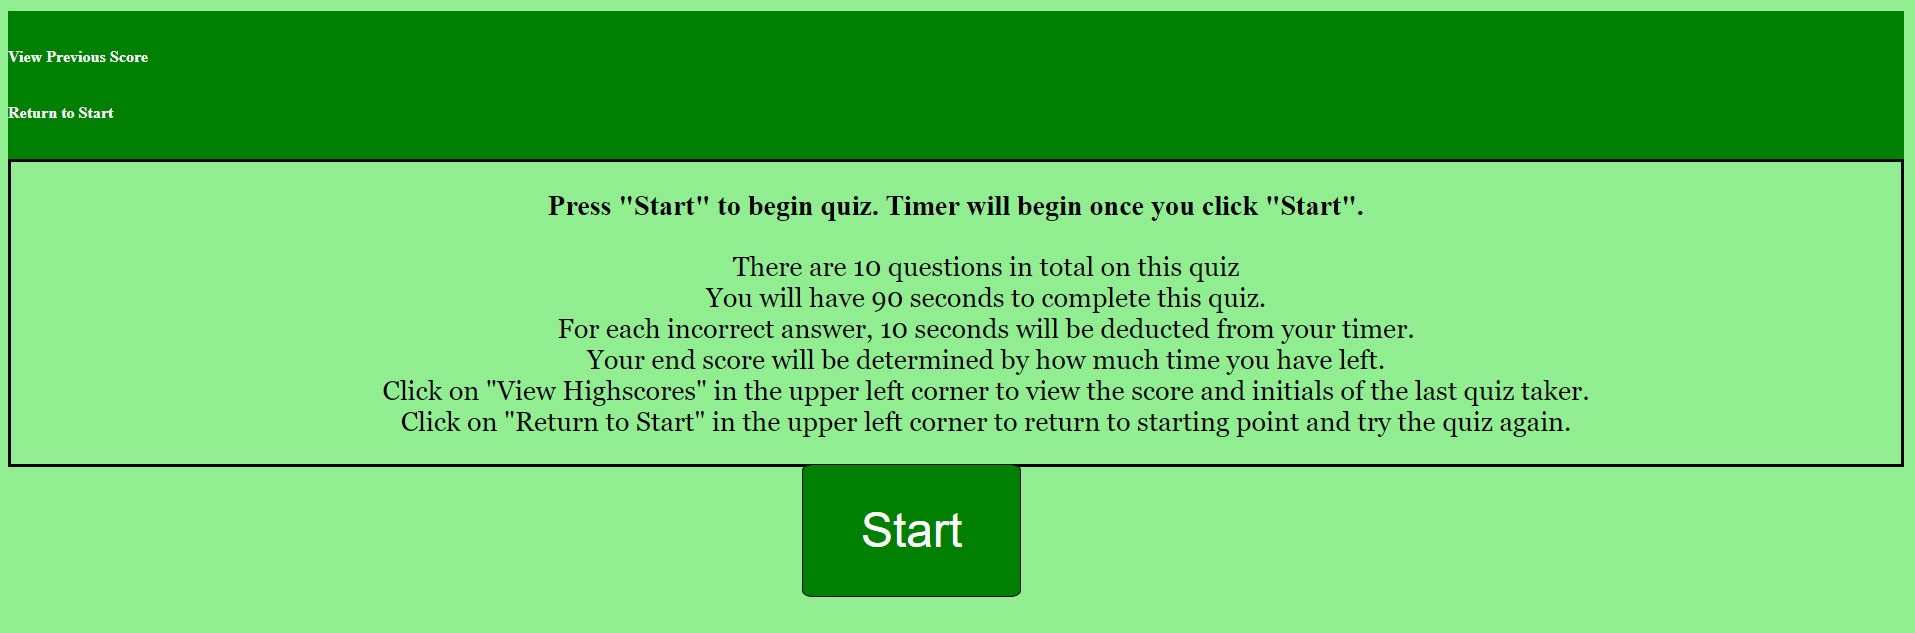
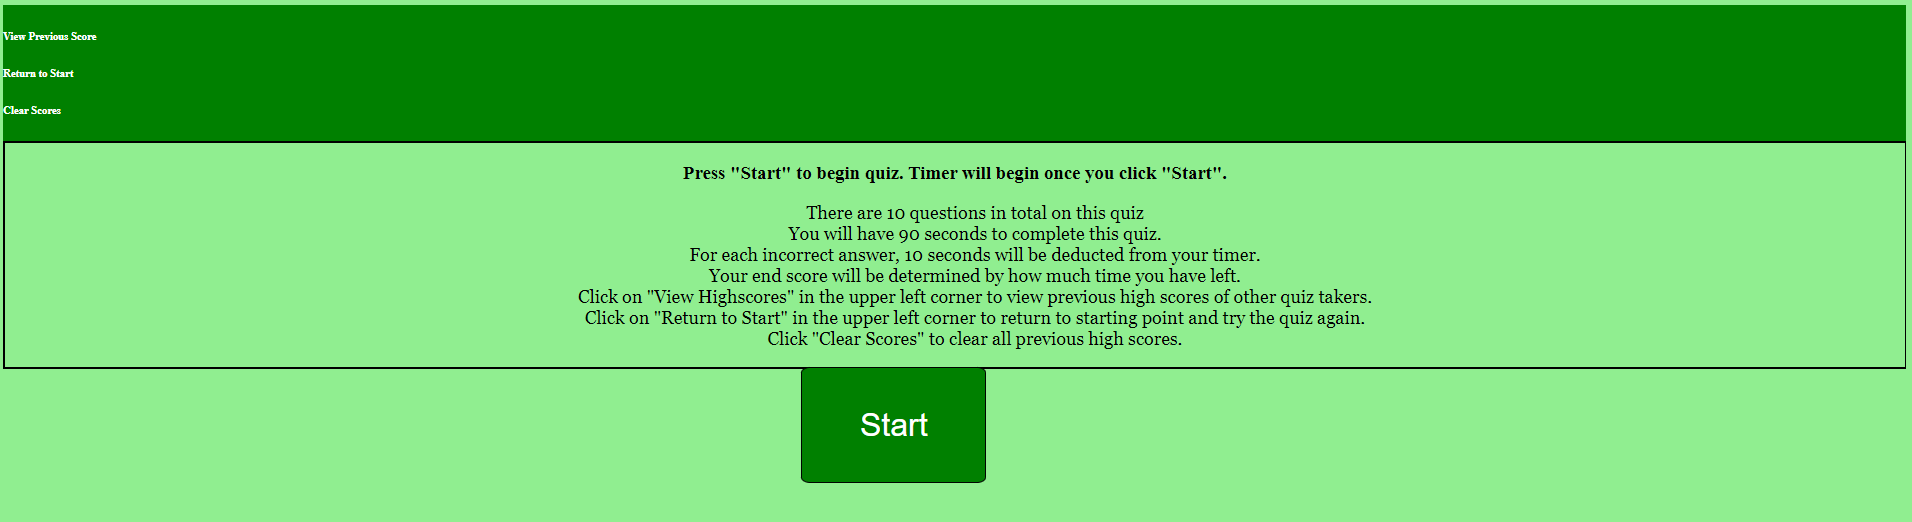
Put in modal to stop user from submitting empty initials in JavaScript and HTML

Changed region(s): [[0.0, 0.0, 1.0, 0.9502], [0.2777, 0.3065, 0.7097, 0.3678]]

diff --git a/assets/script.js b/assets/script.js
@@ -105,6 +105,13 @@ let paragraph = document.createElement("ol");
 let restart = document.getElementById("return");
 let scores = JSON.parse(localStorage.getItem("highScore")) || [];
 const placeholder = ""
+const clearBtn = document.getElementById("clearBtn")
+const modal = document.getElementById("myModal")
+let exit = document.getElementById("close")
+exit.addEventListener("click", function(){
+    modal.style.display = "none"
+})
+
 
 
 //Pull existing scores from local storage on page load and display them on the high scores board.
@@ -177,20 +184,35 @@ function endQuiz() {
     endScore.innerHTML = timeLeft
 }
 
+//Click submit button once initials are added and be taken to the final scores list
+submitbtn.addEventListener("click", initials)
+
 //Saves end user score to local storage
-function scoreList (event) {
+function initials (event) {
     event.preventDefault();
+    results.style.display = "block"
+    highSc.style.display = "none"
+    let userInput = document.getElementById("name")
+    if(userInput.value == ""){
+        modal.style.display = "block"
+    } else {
+        scoreList()
+    }
+
+function scoreList() {
     results.style.display = "none"
     highSc.style.display = "block"
     let highScore = {name: initialInput.value.trim(),
         userScore: timeLeft};
     scores.push(highScore)
     localStorage.setItem("highScore", JSON.stringify(scores))
+    const list = document.createElement("li")
+    paragraph.appendChild(list);
+
     for (let i = 0; i<scores.length; i++) {
-        const list = document.createElement("li")
-        paragraph.appendChild(list);
         list.textContent = `initials:${scores[i].name} - score:${scores[i].userScore}`
     }  
+}
 };
  
 //Bring up the final scores page once initials submit button is clicked.
@@ -218,15 +240,21 @@ function beginning() {
     currentQuestion = 0
 }
 
+//Clear local storage with button click
+clearBtn.addEventListener("click", function() {
+    localStorage.clear(scores);
+    paragraph.innerHTML = ""
+})
 
 
 header.textContent = "Score Board";
 
-
 highSc.appendChild(header);
 header.appendChild(paragraph);
 
-
+exit.addEventListener("click", function(){
+    modal.style.display = "none"
+})
 
 startbtn.addEventListener("click", startQuiz);
 
@@ -235,8 +263,6 @@ btnB.addEventListener("click", nextQuestion)
 btnC.addEventListener("click", nextQuestion)
 btnD.addEventListener("click", nextQuestion)
 
-//Click submit button once initials are added and be taken to the final scores list
-submitbtn.addEventListener("click", scoreList)
 //click the "View Previous Scores" button in the upper left corner and be taken to final scores list.
 scoreBoard.addEventListener("click", showScores)
 //Click "Return to Start" button in upper left corner and begin quiz again

diff --git a/index.html b/index.html
@@ -12,6 +12,7 @@
         <nav>
             <h6 id="scores">View Previous Score</h6>
             <h6 id="return">Return to Start</h6>
+            <h6 id="clearBtn">Clear Scores</h6>
         </nav>
         <h6 id="timer"></h6>
     </header>
@@ -22,8 +23,9 @@
                 <li>You will have 90 seconds to complete this quiz.</li>
                 <li>For each incorrect answer, 10 seconds will be deducted from your timer.</li>
                 <li>Your end score will be determined by how much time you have left.</li>
-                <li>Click on "View Highscores" in the upper left corner to view the score and initials of the last quiz taker.</li>
+                <li>Click on "View Highscores" in the upper left corner to view previous high scores of other quiz takers.</li>
                 <li>Click on "Return to Start" in the upper left corner to return to starting point and try the quiz again.</li>
+                <li>Click "Clear Scores" to clear all previous high scores.</li>
             </ul>
         <section>
             <button id="start" type="button">Start</button>
@@ -47,6 +49,12 @@
             </div>
         </section>
         <section id="scoreScreen"></section>
+        <section id="myModal" class="modal">
+            <div class="modal-content">
+                <span id="close">&times;</span>
+                <p>Please enter valid initials</p>
+            </div>
+        </section>
     </main>
     <script src="assets/script.js"></script>
 </body>

diff --git a/assets/style.css b/assets/style.css
@@ -97,6 +97,10 @@ main{
     background-color: var(--background);
 }
 
+#clearBtn:hover{
+    color: black;
+}
+
 #results{
     display: none;
     background-color: var(--light);
@@ -108,3 +112,42 @@ main{
     background-color: var(--light);
     text-align: center;
 }
+
+#myModal{
+    display: none;
+}
+
+.modal {
+    display: none;
+    position: fixed;
+    z-index: 1;
+    left: 0;
+    top: 0;
+    width: 100%;
+    height: 100%;
+    overflow: auto;
+    background-color: rgb(0,0,0);
+    background-color: rgba(0,0,0,0.4);
+  }
+
+  .modal-content {
+    background-color: #fefefe;
+    margin: 15% auto;
+    padding: 20px;
+    border: 1px solid #888;
+    width: 80%;
+  }
+  
+  #close {
+    color: #aaa;
+    float: right;
+    font-size: 28px;
+    font-weight: bold;
+  }
+  
+  .close:hover,
+  .close:focus {
+    color: black;
+    text-decoration: none;
+    cursor: pointer;
+  }

diff --git a/README.md b/README.md
@@ -8,14 +8,14 @@ N/A
 
 ## Visuals
 <img src="assets/Homepage.png">
-<img src="assets/Previous Score.png">
+<img src="assets/High Scores.png">
 <img src="assets/Question Page.png">
 
 ## Installation
 N/A
 
 ## Usage
-Use this quiz to test your knowledge of JavaScript. Each time the user clicks on an option, the quiz advances to the next question. If the user answers a question wrong, 10 seconds get deducted from the timer. By the end of the quiz, the users score is determined by how much time is left on the timer. If the user clicks "View Previous Score" in the upper left corner of the page they can view the previous users initials and score. If the user finds themselves halfway through the quiz or on the score screen and would like to try the quiz again, they can click "Return to Start" in the upper left corner to stop the current timer and return to the start screen.
+Use this quiz to test your knowledge of JavaScript. Each time the user clicks on an option, the quiz advances to the next question. If the user answers a question wrong, 10 seconds get deducted from the timer. By the end of the quiz, the users score is determined by how much time is left on the timer. If the user clicks "View Previous Score" in the upper left corner of the page they can view a list of scores from previous users who have taken the quiz. If the user finds themselves halfway through the quiz or on the score screen and would like to try the quiz again, they can click "Return to Start" in the upper left corner to stop the current timer and return to the start screen. If the user would like to clear out the high scores list, they can click on "Clear Scores" to clear out local storage and clear the high scores page. If the user does not enter any initials in at the results screen they will be met with a message urging them to enter valid initials or the score will not be logged.
 
 ## Support
 N/A
@@ -25,6 +25,3 @@ This coding was written by myself, Ida Whitcomb, with help from UNH coding bootc
 
 ## License
 N/A
-
-## Project status
-Project is still a work in progress with plans to return to it later and improve functionality and design.
